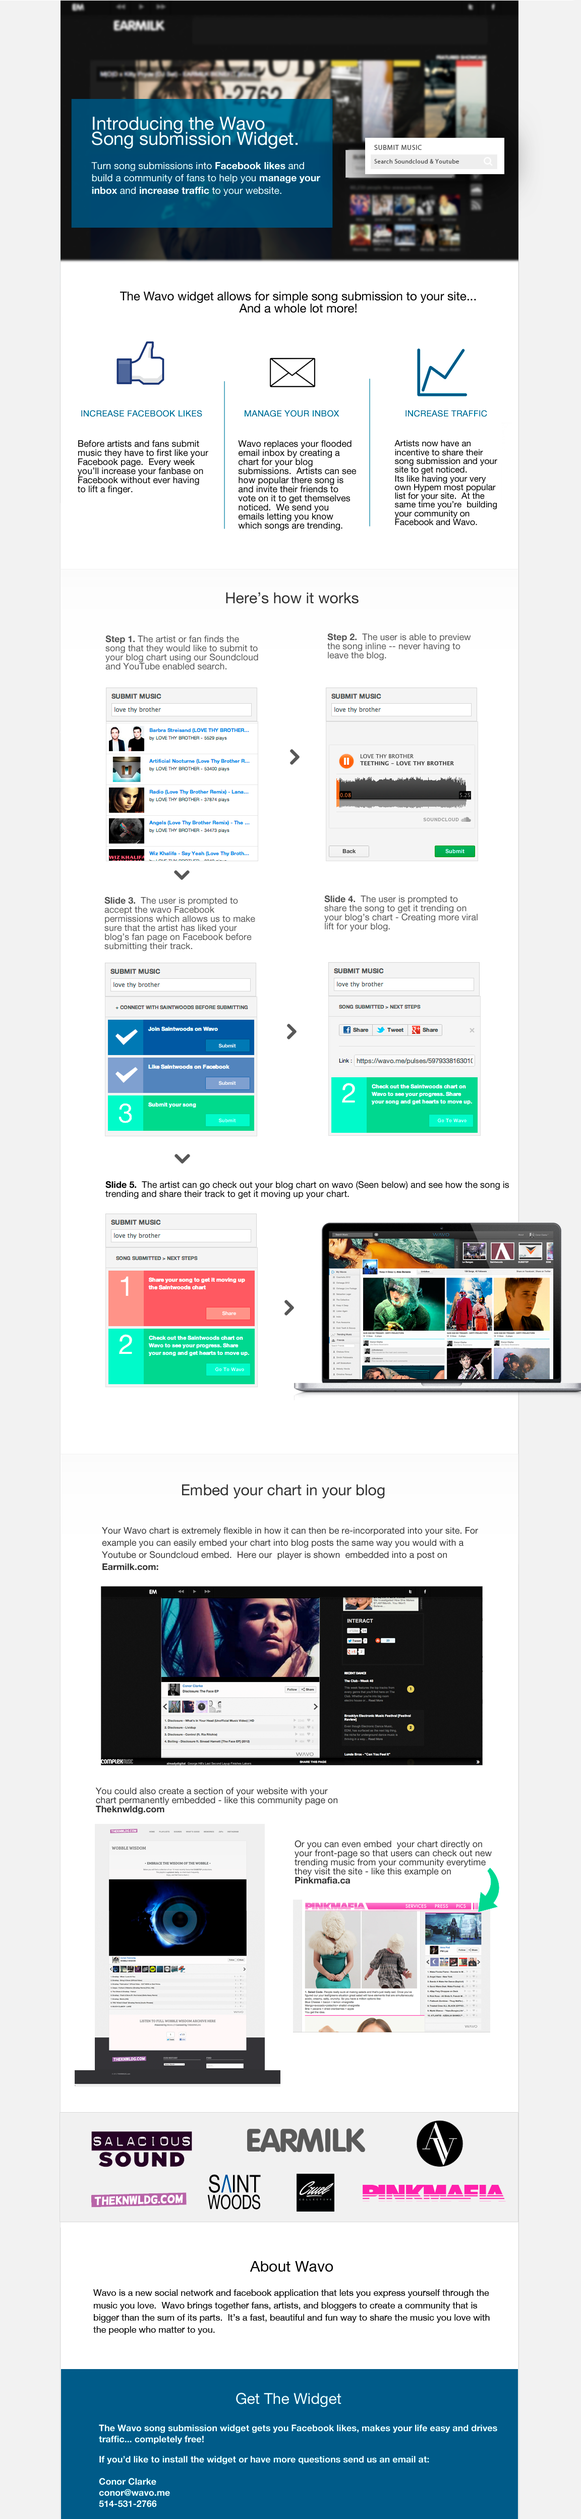
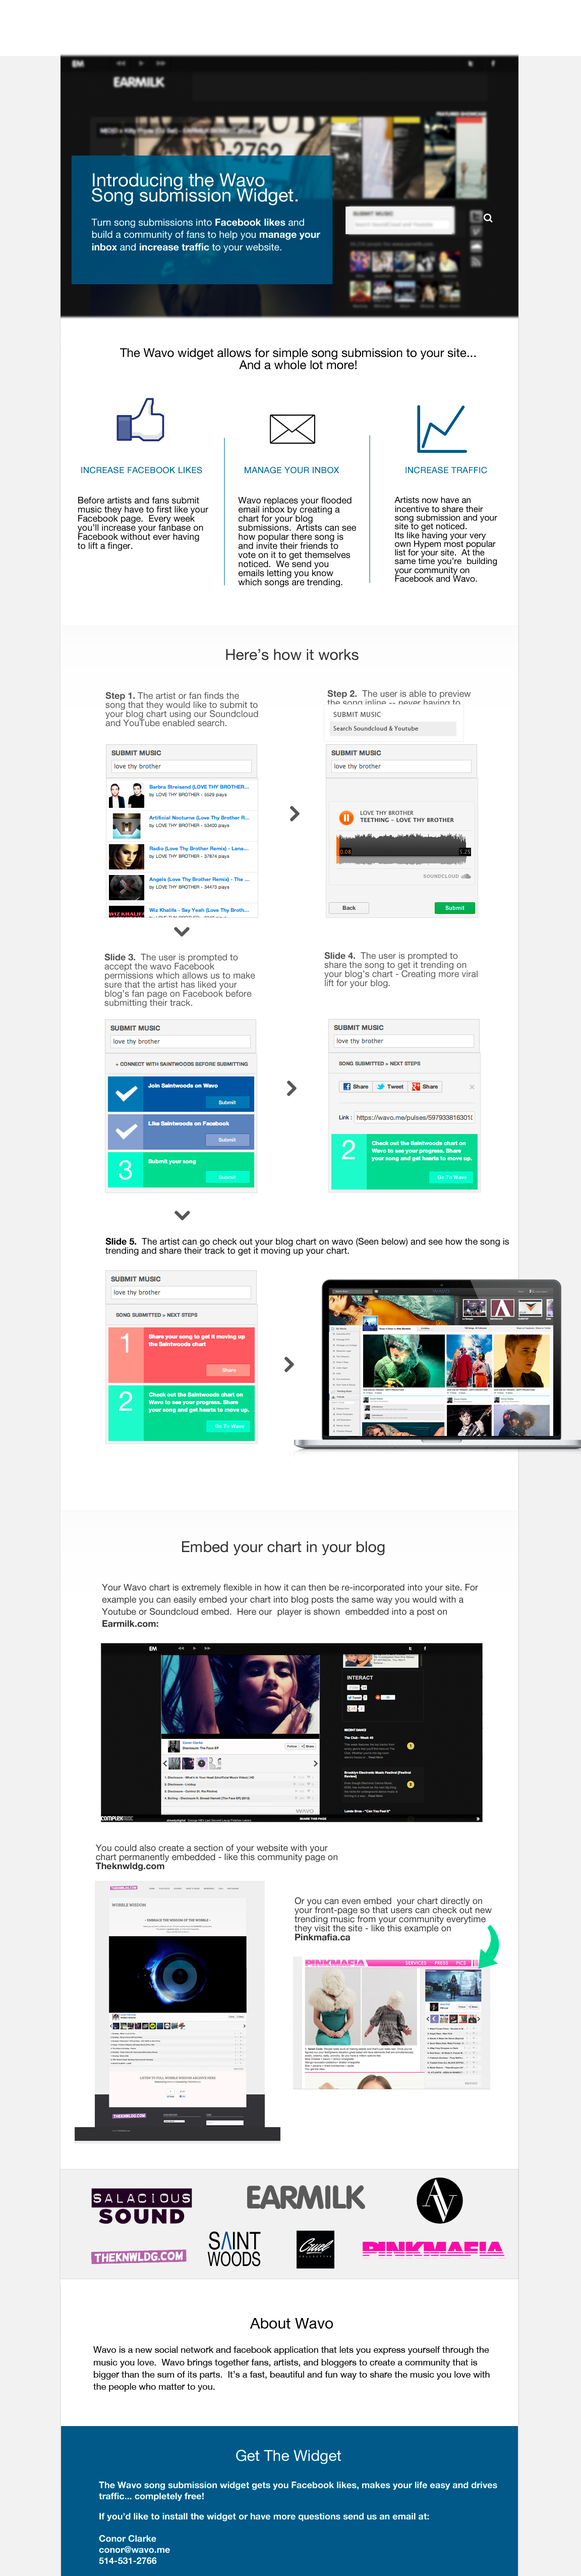
ADDED - Embed example

diff --git a/index.html b/index.html
@@ -29,7 +29,18 @@
       <a href="https://wavo.me/register" class="signup-btn" target="_blank"></a>
     </div>
   </div>
-  <img src="./images/full-deck.png" style="margin-top: 50px" />  
+  <img src="./images/full-deck.png" style="margin-top: -65px" />
+  <div id='submission-embed'>
+    <div id='wavo-root' data-wavo-channel-url='https://wavo.me/conorwavo/wavo-chart-submissions' data-facebook-page-url='https://www.facebook.com/wavo.me' data-blog-name='Wavo'></div>
+    <div id='wavo-powered-by'>Powered by <a href='https://wavo.me' title='Find Free Music With Friends!'>Wavo.me</a></div>
+    <script type="text/javascript">
+      (function() {
+        var w = document.createElement('script'); w.type = 'text/javascript'; w.async = true;
+        w.src = 'https://wavo.me/js/vendors/wavo_song_submit.js';
+        var s = document.getElementsByTagName('script')[0]; s.parentNode.insertBefore(w, s);
+      })();
+    </script>
+  </div>
 </body>
 
 </html>
